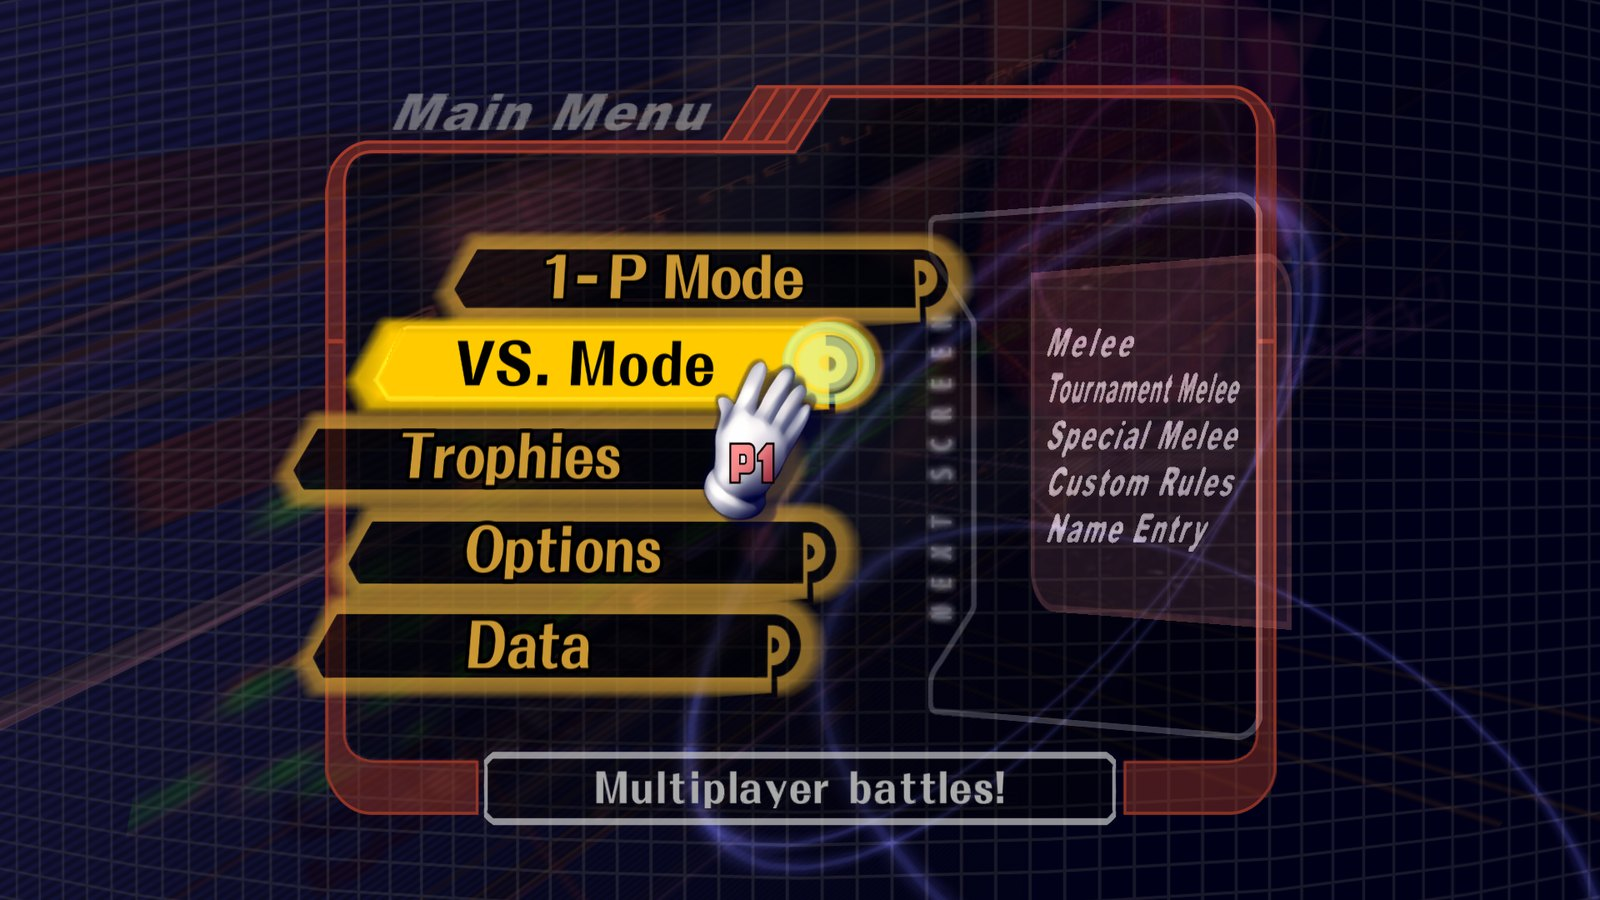
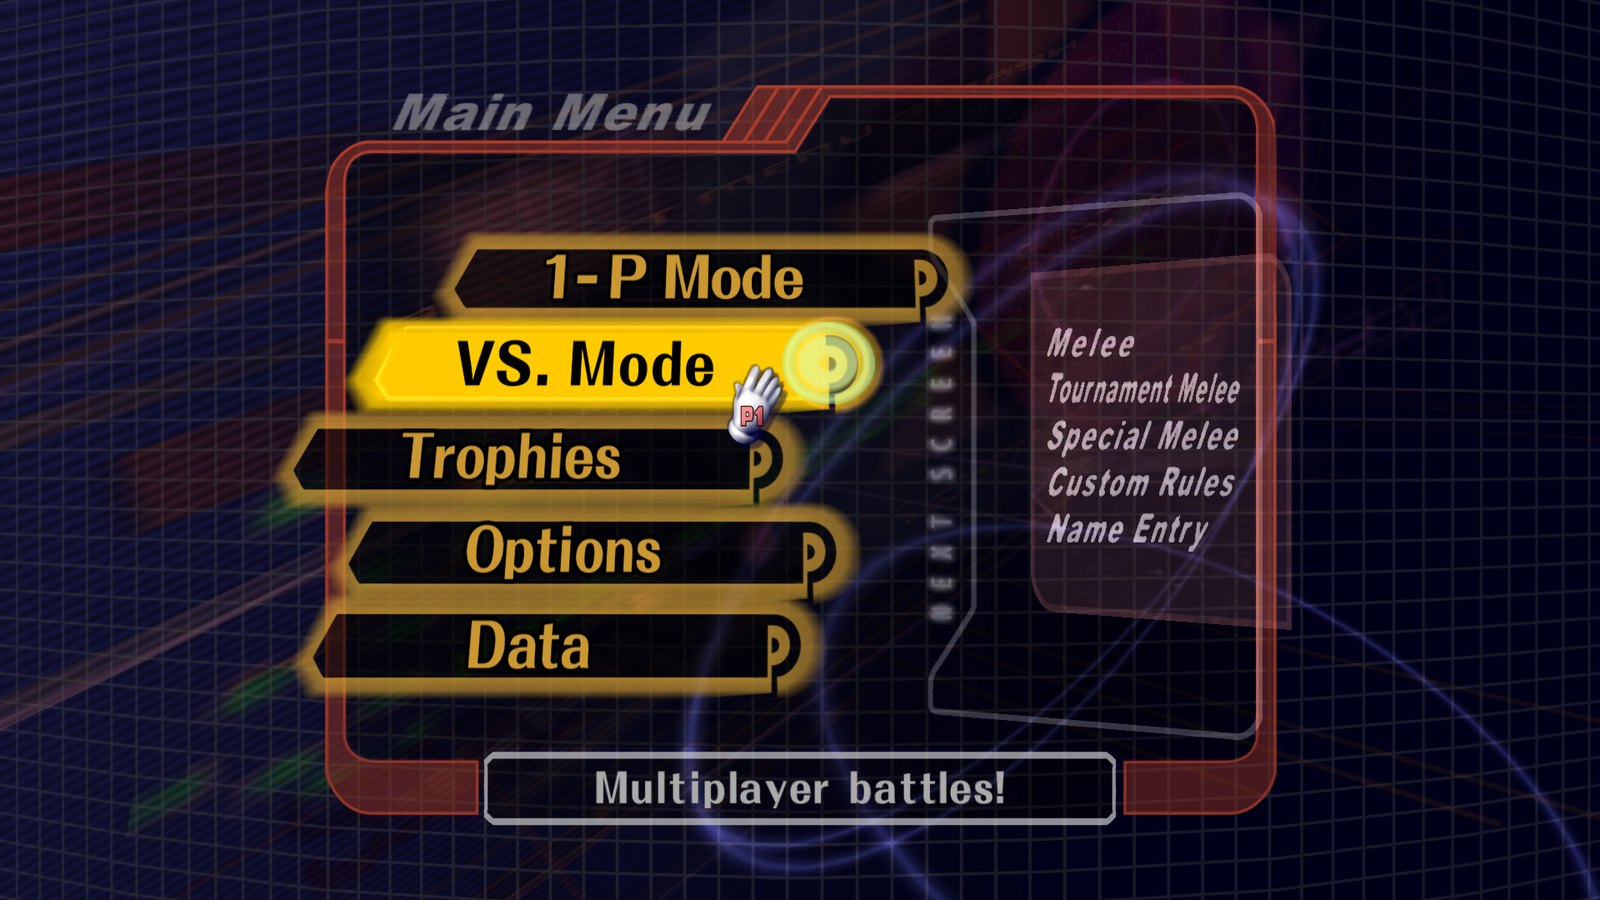
Fix the crash after Training > Finish at 120/144 fps; frame rate 60/120/144; smaller menu hand
- Smooth motion's recorder walked the particle lists in a scene that never
  set particles up (character select after a match), whose heads still
  pointed into the match's freed heap: a crash on the first frame after
  leaving Training at 120 or 144 fps. It now reads them only in a scene
  that initialized particles (pc_particles_live).
- Frame Rate: 60, 120 or 144 (30 removed; old 30 settings read as 60).
  120 and 144 keep the slow-display fallback.
- The menu hand is half the character select hand's size.

Changed region(s): [[0.4375, 0.4044, 0.5312, 0.5911]]

diff --git a/src/pc/vi.c b/src/pc/vi.c
@@ -50,8 +50,6 @@ static bool s_in_frame;
 static u64 s_next_sim_ns;
 /* In-between frames presented since the last FPS log line. */
 static u32 s_interp_presents;
-/* Tick frames held open (30 fps) since the last FPS log line. */
-static u32 s_held_frames;
 unsigned pc_sim_ticks;
 /* Frames presented this tick under MELEE_INTERP_TEST_STEPS. */
 static int s_test_frame;
@@ -66,7 +64,6 @@ static u32 s_begin_n;
 
 static u64 refresh_period_ns(void);
 static u64 present_period_ns(void);
-static bool hold_frame(void);
 /* The game window (pc_vi_set_window) and the display it was last seen on. */
 static SDL_Window* s_window;
 static SDL_DisplayID s_refresh_display;
@@ -187,12 +184,7 @@ void pc_frame_boundary(void) {
     if (timing_debug < 0)
         timing_debug = getenv("MELEE_NET_DEBUG") != NULL;
     s_test_frame = 0;
-    if (s_in_frame && hold_frame()) {
-        /* 30 fps: this tick's frame stays open and the next tick draws over
-         * it, so one present carries two ticks. The game still runs, and
-         * draws, every tick. */
-        s_held_frames++;
-    } else if (s_in_frame) {
+    if (s_in_frame) {
         u64 started = timing_debug ? SDL_GetTicksNS() : 0;
         aurora_end_frame();
         if (timing_debug) {
@@ -284,7 +276,7 @@ void pc_frame_boundary(void) {
             pc_log_line("fps %.1f ticks %.1f present %.1f worst %.1fms late>20ms %u late>33ms %u "
                         "sleep_overshoot %.1fms",
                 fps_n * 1000.0 / (double)(now - fps_t0), ticks * 1000.0 / (double)(now - fps_t0),
-                (fps_n + s_interp_presents - s_held_frames) * 1000.0 / (double)(now - fps_t0),
+                (fps_n + s_interp_presents) * 1000.0 / (double)(now - fps_t0),
                 frame_worst_ns / 1e6, frame_late_20, frame_late_33, sleep_worst_over_ns / 1e6);
             if (s_interp_presents != 0 && s_begin_n > 1) {
                 const double mean = s_begin_sum / s_begin_n;
@@ -300,7 +292,6 @@ void pc_frame_boundary(void) {
             s_begin_sum = s_begin_sq = 0;
             s_begin_n = 0;
             s_interp_presents = 0;
-            s_held_frames = 0;
             fps_t0 = now;
             fps_n = 0;
             frame_worst_ns = 0;
@@ -437,7 +428,7 @@ void pc_frame_boundary(void) {
             else
                 bad_windows = 0;
             if (bad_windows >= 3 && !s_interp_fell_behind && getenv("MELEE_FRAME_INTERP") == NULL &&
-                pc_get_interp_mode() == 0)
+                pc_get_interp_mode() != 2)
             {
                 s_interp_fell_behind = true;
                 bad_windows = 0;
@@ -465,7 +456,7 @@ void pc_frame_boundary(void) {
     const bool grid_on = pc_interp_enabled();
     if (grid_on)
         pace_to_grid();
-    for (; !s_in_frame;) {
+    for (;;) {
         u64 started = timing_debug ? SDL_GetTicksNS() : 0;
         bool begun = aurora_begin_frame();
         if (timing_debug) {
@@ -592,8 +583,8 @@ static u64 refresh_period_ns(void) {
     return hz >= 30.0f ? (u64)(1e9 / hz) : pc_sim_period_ns() / 2;
 }
 
-/* The frame rate setting (pc_get_interp_mode, launcher_data.hpp): 0 auto,
- * 2 60 fps, 3 30 fps, 4 120 fps, 5 144 fps. */
+/* The frame rate setting (pc_get_interp_mode, launcher_data.hpp): 2 60 fps,
+ * 4 120 fps, 5 144 fps (0, auto, only from MELEE_FRAME_INTERP tests). */
 static int frame_rate_cap(void) {
     const int mode = pc_get_interp_mode();
     return mode == 4 ? 120 : mode == 5 ? 144 : 0;
@@ -606,13 +597,6 @@ static u64 present_period_ns(void) {
     const int cap = frame_rate_cap();
     const u64 c = cap > 0 ? 1000000000ull / (u64)cap : 0;
     return c > r ? c : r;
-}
-
-/* 30 fps: keep every other tick's frame open instead of presenting it.
- * Never in netplay, where frames are paced against the peer. */
-static bool hold_frame(void) {
-    return pc_get_interp_mode() == 3 && !pc_net_active() && !pc_menu_is_open() &&
-           (s_retrace_count & 1) != 0;
 }
 
 /* Blend factor from the frame's grid slot. Frames begin one per display
@@ -693,15 +677,15 @@ void pc_present_interp_frame(void) {
 }
 
 bool pc_interp_enabled(void) {
-    /* MELEE_FRAME_INTERP overrides the Smooth motion setting (interp pref:
-     * 0 auto, 1 on, 2 off). */
+    /* MELEE_FRAME_INTERP overrides the Frame Rate setting: 120 and 144 fps
+     * draw in-between frames, 60 does not. */
     static int env = -2; /* -1 unset, 0 off, 1 on */
     if (env == -2) {
         const char* e = getenv("MELEE_FRAME_INTERP");
         env = e == NULL || e[0] == '\0' ? -1 : e[0] == '0' ? 0 : 1;
     }
     const int pref = pc_get_interp_mode();
-    const int mode = env != -1 ? env : pref == 4 || pref == 5 ? 1 : pref == 2 || pref == 3 ? 0 : -1;
+    const int mode = env != -1 ? env : pref == 4 || pref == 5 ? -1 : 0;
     if (mode == 0 || pc_net_active())
         return false;
     if (mode == 1)

diff --git a/src/sysdolphin/baselib/particle.c b/src/sysdolphin/baselib/particle.c
@@ -58,6 +58,13 @@ typedef struct {
 /* 4D78F4 */ HSD_SList* hsd_804D78F4 = NULL;
 static HSD_JObj* hsd_804D08E8[8];
 /* 4D0908 */ HSD_Particle* hsd_804D0908[16];
+#ifdef TARGET_PC
+/* hsd_804D0908 lists this scene's particles: set by hsd_80398A08, cleared
+ * when a scene ends (gmscene.c). A scene that never initializes particles
+ * (a menu after a match) keeps the last match's heads, which point into its
+ * freed heap; only pc/interp.c reads them there. */
+bool pc_particles_live;
+#endif
 /* 4D0948 */ DiscU32* hsd_804D0948[65];
 /* 4D0A4C */ int psFormGroupArray[65];
 /* 4D0B50 */ DiscU32* psTexGroupArray[65];
@@ -304,6 +311,9 @@ void hsd_80398A08(u32 unused)
     for (i = 0; i < 16; i++) {
         hsd_804D0908[i] = NULL;
     }
+#ifdef TARGET_PC
+    pc_particles_live = true;
+#endif
     hsd_804D78E2 = 0;
     numPeakParticles = 0;
     for (i = 0; i < 0x41; i++) {

diff --git a/src/pc/launcher.cpp b/src/pc/launcher.cpp
@@ -81,18 +81,18 @@ bool change_online(Rml::Event& event) {
 }
 
 const char* smooth_name(int mode) {
-    return mode == 3 ? "30" : mode == 4 ? "120" : mode == 5 ? "144" : "60";
+    return mode == 4 ? "120" : mode == 5 ? "144" : "60";
 }
 
 /* The frame rate setting (prefs.interp) after `mode`, `dir` steps along
- * 30, 60, 120, 144. */
+ * 60, 120, 144. */
 int next_frame_rate(int mode, int dir) {
-    static const int order[4] = {3, 2, 4, 5};
-    int at = 1; /* 60 for anything else */
-    for (int i = 0; i < 4; i++)
+    static const int order[3] = {2, 4, 5};
+    int at = 0; /* 60 for anything else */
+    for (int i = 0; i < 3; i++)
         if (order[i] == mode)
             at = i;
-    return order[(at + 4 + (dir < 0 ? -1 : 1)) % 4];
+    return order[(at + 3 + (dir < 0 ? -1 : 1)) % 3];
 }
 
 std::string stock_style_name(const std::string& style) {

diff --git a/src/pc/launcher_data.hpp b/src/pc/launcher_data.hpp
@@ -39,9 +39,9 @@ struct Preferences {
     bool custom_textures = true;
     bool unlock_all = true;  // Melee 4K: every character, stage and mode from the start
     int hud_mode = 1;        // 0 classic, 1 wide (anchored to the 16:9 edges)
-    // Frame rate (src/pc/vi.c): 2 60 fps, 3 30 fps, 4 120 fps, 5 144 fps. The game
-    // itself always runs at 60. 0 (auto) and 1 (in-between frames on) are from older
-    // configs and read as 60.
+    // Frame rate (src/pc/vi.c): 2 60 fps, 4 120 fps, 5 144 fps. The game itself
+    // always runs at 60. 0 (auto), 1 (in-between frames on) and 3 (30 fps) are from
+    // older configs and read as 60.
     int interp = 2;
     std::string stock_style = "default";  // texture overlay folder under textures/stocks
     bool frozen_stadium = false;

diff --git a/src/pc/interp.c b/src/pc/interp.c
@@ -127,6 +127,7 @@ static bool s_gcam_restored;
 
 /* Live particle lists, one per link (src/sysdolphin/baselib/particle.c). */
 extern HSD_Particle* hsd_804D0908[16];
+extern bool pc_particles_live; /* particle.c */
 
 static unsigned hash_ptr(const void* p) {
     uintptr_t v = (uintptr_t)p;
@@ -512,7 +513,8 @@ void pc_interp_capture(void) {
             }
         }
     }
-    for (int link = 0; link < 16; link++) {
+    /* Only a scene that set up particles has live lists (particle.c). */
+    for (int link = 0; link < 16 && pc_particles_live; link++) {
         for (HSD_Particle* pp = hsd_804D0908[link]; pp != NULL; pp = pp->next) {
             PState st = {pp, pp->pos, pp->kind, pp->life, pp->bank};
             ptable_add(&s_ptcl[s_cur], &st);

diff --git a/tools/test_launcher_data.cpp b/tools/test_launcher_data.cpp
@@ -117,11 +117,16 @@ int main(int argc, char** argv) {
     loaded = load_preferences(config);
     assert(loaded.interp == 2 && loaded.stock_style == "Smash 4");
     {
-        // Frame rate 30 fps.
+        // Frame rate 144 fps; the retired 30 fps reads as 60.
+        std::ofstream f(config);
+        f << "interp 5\n";
+    }
+    assert(load_preferences(config).interp == 5);
+    {
         std::ofstream f(config);
         f << "interp 3\n";
     }
-    assert(load_preferences(config).interp == 3);
+    assert(load_preferences(config).interp == 2);
     {
         // The retired auto and "in-between frames forced on" read as 60 fps.
         std::ofstream f(config);

diff --git a/src/pc/menu_hand.c b/src/pc/menu_hand.c
@@ -28,8 +28,10 @@
 #include <sysdolphin/baselib/wobj.h>
 
 /* The hand's size on screen, in 640x480 canvas units per character select
- * world unit (that screen's camera shows about 64 units across 640). */
-#define HAND_SCALE 10.0f
+ * world unit (that screen's camera shows about 64 units across 640, so 10
+ * would match character select): half that, so it covers less of the text
+ * it points at. */
+#define HAND_SCALE 5.0f
 /* From the hand's origin to its fingertips, in the same world units: the
  * fingertips are where it points. */
 #define TIP_X 3.0f

diff --git a/src/pc/launcher_data.cpp b/src/pc/launcher_data.cpp
@@ -401,7 +401,7 @@ Preferences load_preferences(const std::filesystem::path& path) {
         } else if (key == "interp") {
             int value;
             if (row >> value && value >= 0 && value <= 5)
-                prefs.interp = value <= 1 ? 2 : value;
+                prefs.interp = value == 4 || value == 5 ? value : 2;
         } else if (key == "stock_style") {
             // A folder name under textures/stocks: no separators or dots.
             std::string value;

diff --git a/src/sysdolphin/baselib/particle.h b/src/sysdolphin/baselib/particle.h
@@ -18,6 +18,9 @@
                                          int* formBank, int* newCmdBank,
                                          int* newTexBank, int* newFormBank);
 /* 398A08 */ void hsd_80398A08(u32);
+#ifdef TARGET_PC
+extern bool pc_particles_live;
+#endif
 /* 398C04 */ HSD_Particle*
 psGenerateParticle0(HSD_Particle** head, int linkNo, int bank, u32 kind,
                     u16 texGroup, u8* list, int life, int palflag, f32 x,

diff --git a/src/melee/gm/gmscene.c b/src/melee/gm/gmscene.c
@@ -2,6 +2,7 @@
 #ifdef TARGET_PC
 #include "pc/interp.h"
 #include "pc/menu_hand.h"
+#include <sysdolphin/baselib/particle.h>
 #include "pc/net.h"
 #include "pc/pc.h"
 #include "pc/slp.h"
@@ -540,6 +541,7 @@ void gm_801A4D34(void (*on_frame)(void), GameSceneInfo* info)
      * its loop starts. */
     ifAll_PcForgetHud();
     pc_menu_hand_forget();
+    pc_particles_live = false;
 #endif
     HSD_VIWaitXFBFlush();
 }

diff --git a/docs/melee-4k.md b/docs/melee-4k.md
@@ -15,7 +15,7 @@ them.
 |---|---|
 | 4K rendering | Internal resolution up to 10x native; Auto renders at the display's resolution (4K on a 4K display). |
 | Widescreen | 16:9 by default, in every scene except the pre-rendered movies; 4:3 ("Original") in settings, switchable mid-match (the HUD moves with it). |
-| Frame rate | 30, 60 (default), 120 or 144 fps. Above 60, frames are blended between the game's 60 Hz ticks (fighters, camera and shake, particles, sword trails); the simulation is untouched. Verified at 4K/144 Hz: 60.00 ticks/s, ~143 frames/s. |
+| Frame rate | 60 (default), 120 or 144 fps. Above 60, frames are blended between the game's 60 Hz ticks (fighters, camera and shake, particles, sword trails); the simulation is untouched. Verified at 4K/144 Hz: 60.00 ticks/s, ~143 frames/s. |
 | HD textures | The Melee HD 2023 pack wherever it has a texture, then HD Remix and the other community packs; AI upscales (Real-ESRGAN) only where no community version exists. Selectable stock-icon styles. |
 | Input | The mouse drives the character select hand, which also appears in the main menus and VS Rules. |
 | Online | Host Lobby / Join Lobby by code, Mac and PC together; same-network players connect directly. |

diff --git a/docs/playing.md b/docs/playing.md
@@ -32,7 +32,7 @@ setting:
 | Screen | 16:9, the original 4:3, or Auto (fit the window). Changes take effect at once, mid-match too. |
 | HUD | Wide (out to the 16:9 edges) or Classic. |
 | Resolution | Auto (your display's: 4K on a 4K screen) or 1x to 10x. |
-| Frame Rate | 30, 60 (the default), 120 or 144 fps. The game itself always runs at 60; above 60, in-between frames are drawn, so pick 120 or 144 only on a display that fast. |
+| Frame Rate | 60 (the default), 120 or 144 fps. The game itself always runs at 60; above 60, in-between frames are drawn, so pick 120 or 144 only on a display that fast. |
 | HD Textures | On or off. |
 | Stocks | The stock icon style: Melee HD (the default), Circle, Smash 4 or Classic pixel. |
 | FPS Counter | The frame rate, top right. |
